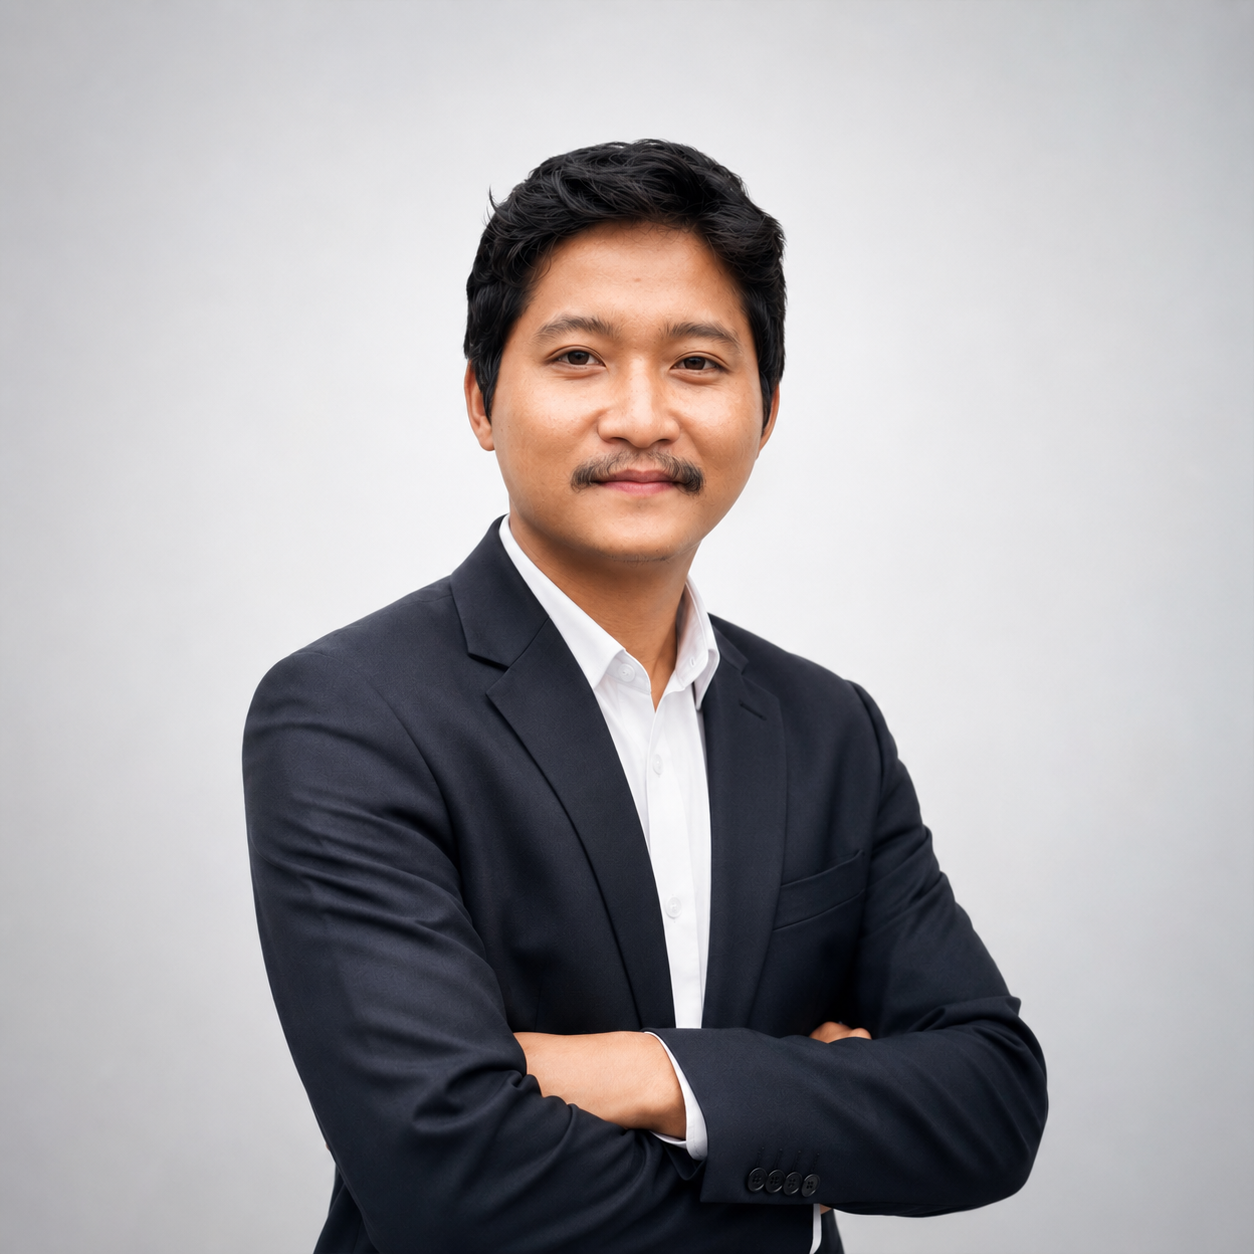
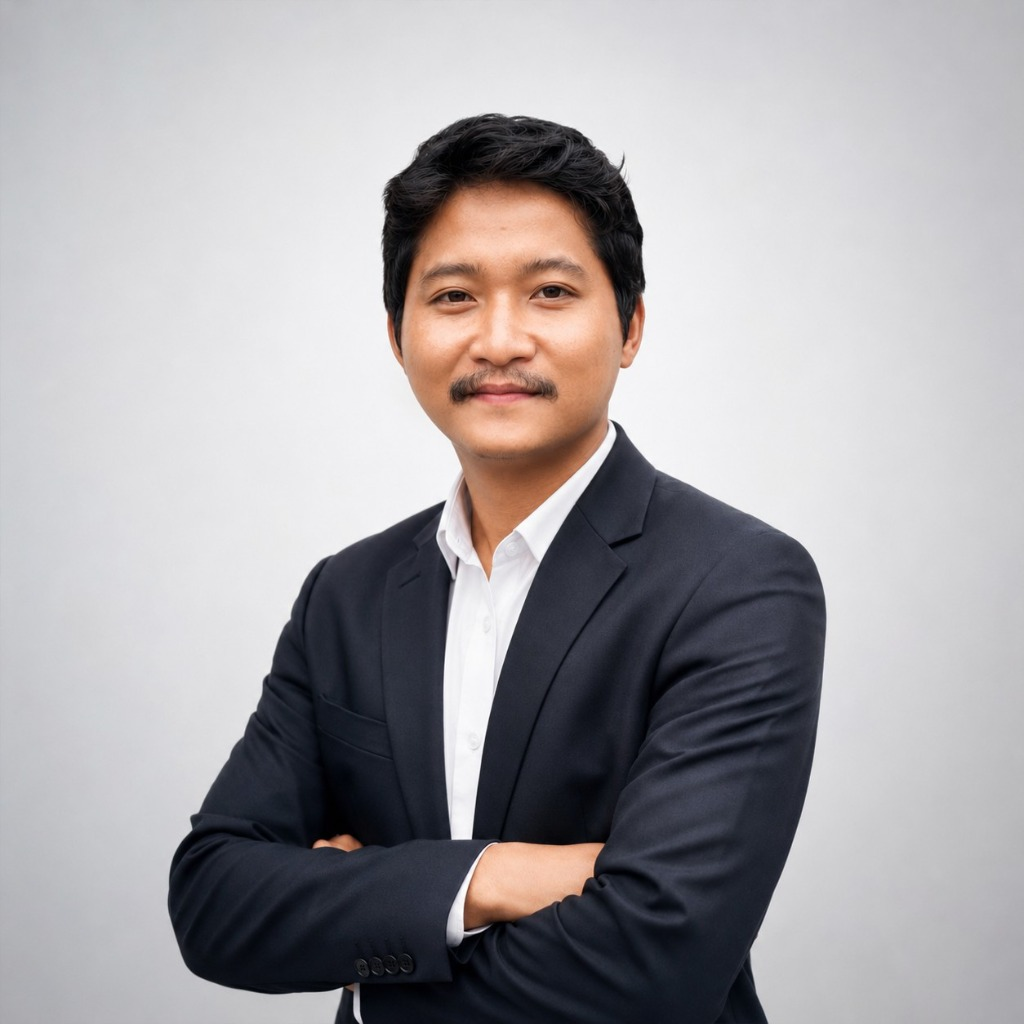
New hero photo, project labels updated on home page only, about photo unchanged

Changed region(s): [[0.1562, 0.0938, 0.8438, 1.0]]

diff --git a/index.html b/index.html
@@ -70,7 +70,7 @@
       <div class="avatar-ring-outer"></div>
       <div class="avatar-ring-inner"></div>
       <div class="avatar-img-wrap">
-        <img src="about_picture.png" alt="Sharananngkar Chakma" class="avatar-img"/>
+        <img src="home_picture.png" alt="Sharananngkar Chakma" class="avatar-img"/>
       </div>
 
       <div class="hero-social-card" style="bottom: -30px;">
@@ -109,7 +109,7 @@
         <div class="about-visual reveal-left">
           <div class="about-card glass-card">
             <div class="about-photo-wrap reveal-up">
-              <img src="home_picture.png" alt="Sharananngkar Chakma" class="about-photo"/>
+              <img src="about_picture.png" alt="Sharananngkar Chakma" class="about-photo"/>
               <div class="photo-decoration"></div>
             </div>
             <div class="about-info-chips">
@@ -149,8 +149,7 @@
           <h3>Communication Research</h3>
           <p>This research explores how content creators and communication experts perceive the proposed BTRC Regulation for Digital, Social Media and OTT Platforms.</p>
           <div class="project-meta">
-            <span>🗓 Summer 2022</span>
-            <span>📂 Research</span>
+            <span>📂 Research Proposal</span>
           </div>
           <a href="project1" class="project-arrow" style="font-size: 0.9rem; font-weight: 500; text-decoration: none; color: inherit; display: inline-block; margin-top: 1rem;">View Details &rarr;</a>
         </div>
@@ -159,8 +158,7 @@
           <h3>Communication & Technology</h3>
           <p>This blog explores how Mobilization Theory explains the success of major social movements in Bangladesh, particularly the #MeToo Bangladesh and Safe Road Movement.</p>
           <div class="project-meta">
-            <span>🗓 Spring 2023</span>
-            <span>📂 Blog</span>
+            <span>📂 Stories of Successful Protest</span>
           </div>
           <a href="project2" class="project-arrow" style="font-size: 0.9rem; font-weight: 500; text-decoration: none; color: inherit; display: inline-block; margin-top: 1rem;">View Details &rarr;</a>
         </div>
@@ -169,8 +167,7 @@
           <h3>Mass Communication</h3>
           <p>This blog examines the concept of polarization in international politics through the lens of contemporary global power dynamics.</p>
           <div class="project-meta">
-            <span>🗓 Summer 23</span>
-            <span>📂 Blog</span>
+            <span>📂 Polarization in International Politics</span>
           </div>
           <a href="project3" class="project-arrow" style="font-size: 0.9rem; font-weight: 500; text-decoration: none; color: inherit; display: inline-block; margin-top: 1rem;">View Details &rarr;</a>
         </div>
@@ -179,7 +176,6 @@
           <h3>Advance English Writing Skills</h3>
           <p>This blog explores the rich cultural heritage of the Jumma indigenous communities of the Chittagong Hill Tracts through their traditional New Year festivals.</p>
           <div class="project-meta">
-            <span>🗓 Spring 2022</span>
             <span>📂 Press Release</span>
           </div>
           <a href="project4" class="project-arrow" style="font-size: 0.9rem; font-weight: 500; text-decoration: none; color: inherit; display: inline-block; margin-top: 1rem;">View Details &rarr;</a>
@@ -189,8 +185,7 @@
           <h3>Advance Bangla Writing Skills</h3>
           <p>এই লেখায় বাংলাদেশের প্রখ্যাত সাংবাদিক, মুক্তিযোদ্ধা, সংস্কৃতিকর্মী ও রাজনীতিবিদ বজলুর রহমান-এর জীবন তুলে ধরা হয়েছে।</p>
           <div class="project-meta">
-            <span>🗓 Summer 2022</span>
-            <span>📂 Article</span>
+            <span>📂 Article (Bangla)</span>
           </div>
           <a href="project5" class="project-arrow" style="font-size: 0.9rem; font-weight: 500; text-decoration: none; color: inherit; display: inline-block; margin-top: 1rem;">View Details &rarr;</a>
         </div>
@@ -199,8 +194,7 @@
           <h3>Convergence Communication 1</h3>
           <p>The Threads of Triumph is a collaborative trashion fashion project inspired by the theme "Desired Difficulty."</p>
           <div class="project-meta">
-            <span>🗓 Spring 2024</span>
-            <span>📂 Creative Project</span>
+            <span>📂 The Threads of Triumph</span>
           </div>
           <a href="project6" class="project-arrow" style="font-size: 0.9rem; font-weight: 500; text-decoration: none; color: inherit; display: inline-block; margin-top: 1rem;">View Details &rarr;</a>
         </div>
@@ -209,7 +203,6 @@
           <h3>Convergence Communication 2</h3>
           <p>Dark Hope is a conceptual short film inspired by the Curriculum Integration theme "Desired Difficulty."</p>
           <div class="project-meta">
-            <span>🗓 Spring 2024</span>
             <span>📂 Video Art</span>
           </div>
           <a href="project7" class="project-arrow" style="font-size: 0.9rem; font-weight: 500; text-decoration: none; color: inherit; display: inline-block; margin-top: 1rem;">View Details &rarr;</a>
@@ -219,8 +212,7 @@
           <h3>C4D Planning & Process</h3>
           <p>Project Green Dhaka is a Communication for Development (C4D) initiative designed to promote environmental sustainability through environmental education.</p>
           <div class="project-meta">
-            <span>🗓 Summer 2024</span>
-            <span>📂 Academic Project</span>
+            <span>📂 Project Green Dhaka</span>
           </div>
           <a href="project8" class="project-arrow" style="font-size: 0.9rem; font-weight: 500; text-decoration: none; color: inherit; display: inline-block; margin-top: 1rem;">View Details &rarr;</a>
         </div>
@@ -229,8 +221,7 @@
           <h3>Participatory Research</h3>
           <p>This participatory research project explores students' experiences and perspectives at ULAB using Transect Walk and Resource Mapping.</p>
           <div class="project-meta">
-            <span>🗓 Summer 2025</span>
-            <span>📂 Research</span>
+            <span>📂 Transect Walk &amp; Resource Mapping</span>
           </div>
           <a href="project9" class="project-arrow" style="font-size: 0.9rem; font-weight: 500; text-decoration: none; color: inherit; display: inline-block; margin-top: 1rem;">View Details &rarr;</a>
         </div>
@@ -239,8 +230,7 @@
           <h3>ICT for Development</h3>
           <p>This paper examines the role of Information and Communication Technology (ICT) in advancing sustainable development in Bangladesh.</p>
           <div class="project-meta">
-            <span>🗓 Fall 2024</span>
-            <span>📂 Academic Review</span>
+            <span>📂 ICT for Sustainable Development in Bangladesh</span>
           </div>
           <a href="project10" class="project-arrow" style="font-size: 0.9rem; font-weight: 500; text-decoration: none; color: inherit; display: inline-block; margin-top: 1rem;">View Details &rarr;</a>
         </div>
@@ -249,8 +239,7 @@
           <h3>Health Communication</h3>
           <p>This project focuses on improving healthcare access and promoting positive health behavior in the Chittagong Hill Tracts.</p>
           <div class="project-meta">
-            <span>🗓 Summer 2024</span>
-            <span>📂 Public Health</span>
+            <span>📂 Health Communication</span>
           </div>
           <a href="project11" class="project-arrow" style="font-size: 0.9rem; font-weight: 500; text-decoration: none; color: inherit; display: inline-block; margin-top: 1rem;">View Details &rarr;</a>
         </div>
@@ -259,8 +248,7 @@
           <h3>Emergency Communication</h3>
           <p>A comprehensive Emergency and Risk Communication (ERC) plan for managing a simulated foodborne illness outbreak.</p>
           <div class="project-meta">
-            <span>🗓 Fall 2025</span>
-            <span>📂 Crisis Management</span>
+            <span>📂 Public Health Emergency</span>
           </div>
           <a href="project12" class="project-arrow" style="font-size: 0.9rem; font-weight: 500; text-decoration: none; color: inherit; display: inline-block; margin-top: 1rem;">View Details &rarr;</a>
         </div>
@@ -269,8 +257,7 @@
           <h3>Entertainment Education Communication</h3>
           <p>Going To America is a short drama exploring the dangers of false promises surrounding overseas education and scholarship scams.</p>
           <div class="project-meta">
-            <span>🗓 Spring 2025</span>
-            <span>📂 Short Film</span>
+            <span>📂 Edutainment</span>
           </div>
           <a href="project13" class="project-arrow" style="font-size: 0.9rem; font-weight: 500; text-decoration: none; color: inherit; display: inline-block; margin-top: 1rem;">View Details &rarr;</a>
         </div>
@@ -279,8 +266,7 @@
           <h3>Environmental Communication</h3>
           <p>Soil Pollution in the Chittagong Hill Tracts (CHT) examines how rapid tourism development contributes to soil degradation and environmental pollution.</p>
           <div class="project-meta">
-            <span>🗓 Spring 2025</span>
-            <span>📂 Research Paper</span>
+            <span>📂 Soil Pollution in the Chittagong Hill Tracts (CHT)</span>
           </div>
           <a href="project14" class="project-arrow" style="font-size: 0.9rem; font-weight: 500; text-decoration: none; color: inherit; display: inline-block; margin-top: 1rem;">View Details &rarr;</a>
         </div>
